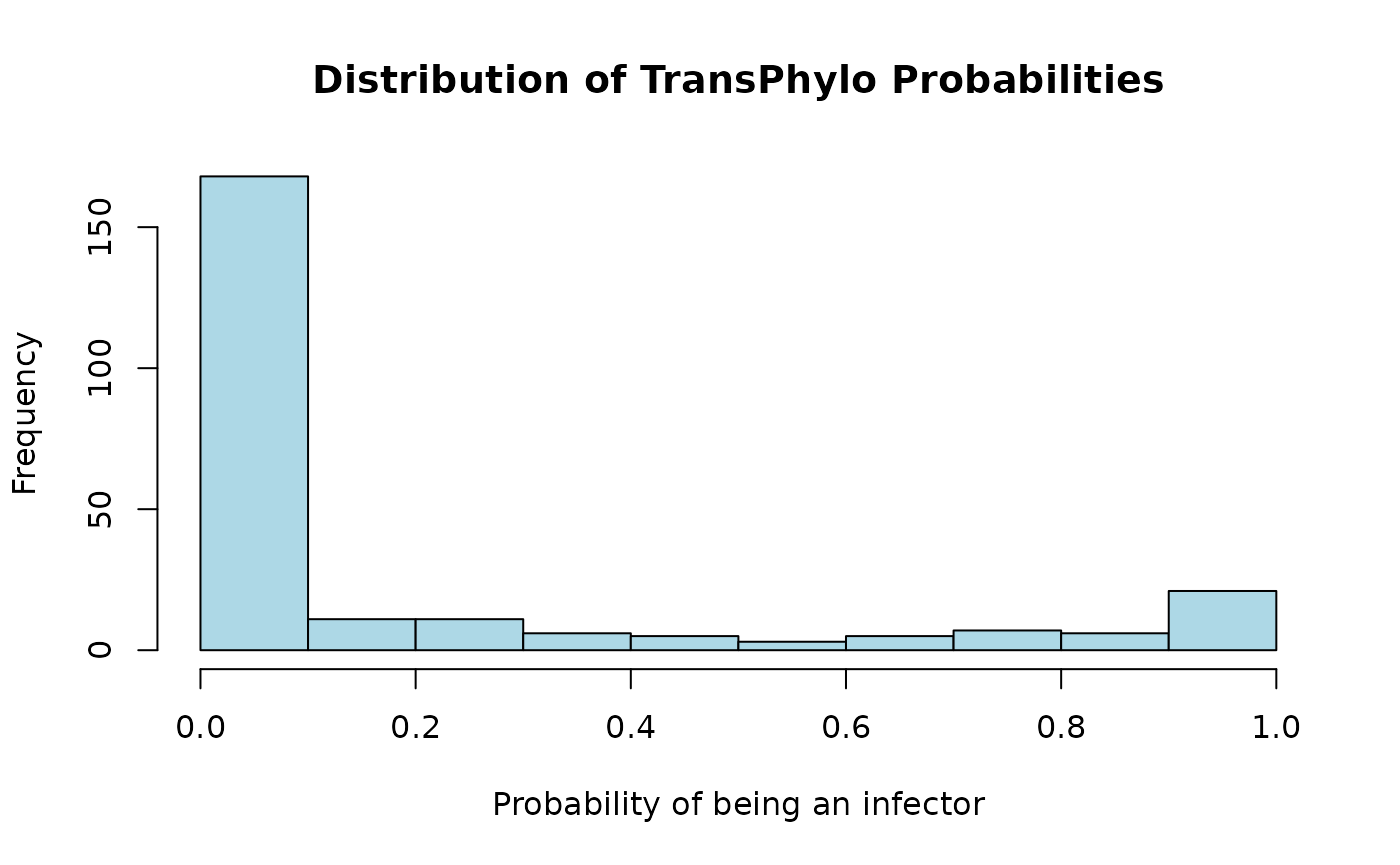
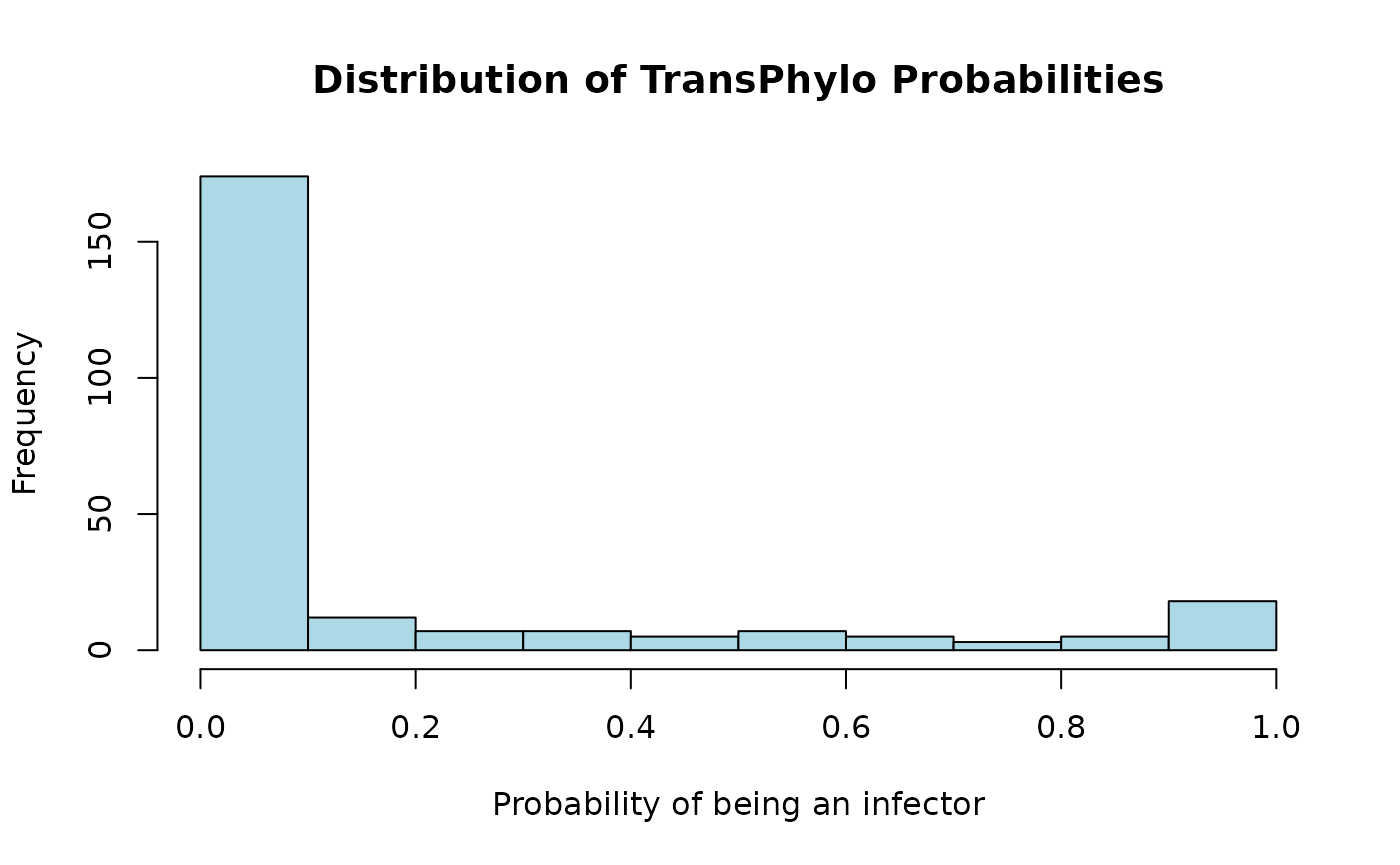
Deploying to gh-pages from @ jessalynnsebastian/beast2tpPipeline@931cb9d9642def74400d4748510269ff70b64350 🚀

diff --git a/articles/mcc_tree_pipeline.html b/articles/mcc_tree_pipeline.html
@@ -248,11 +248,11 @@ argument.</p>
 <span><span class="co">## 4  BTB-1007 lineage4_cluster4 2014-05-02</span></span>
 <span><span class="co">## 5  BTB-1009 lineage4_cluster5 2014-05-05</span></span>
 <span><span class="co">## 6  BTB-1010 lineage4_cluster6 2014-05-05</span></span></code></pre>
-<p>Next, we will create the actual BEAST2 clusters using the
-<code>create_BEAST2_clusters</code> function. We will take the
-sequences, split them into separate objects, and keep only the SNPs
-(sites that are the same across all sequences will not matter to
-BEAST2).</p>
+<p>Next, we will create the actual BEAST2 clusters containing the
+genetic data using the <code>create_BEAST2_clusters</code> function. We
+will take the sequences, split them into separate objects, and keep only
+the SNPs (sites that are the same across all sequences will not matter
+to BEAST2).</p>
 <p>We will discard clusters with fewer than 4 sequences, and clusters
 with fewer than 8 SNPs. We also add constant sites to the sequences, to
 deal with ascertainment bias in BEAST2 due to the fact that we are only
@@ -548,7 +548,7 @@ We will use the <code>regression</code> function to do so.</p>
 <code class="sourceCode R"><span><span class="co"># Get dataframe with covariates for regression</span></span>
 <span><span class="va">cleaned_data</span> <span class="op">&lt;-</span> <span class="va">metadata</span><span class="op">[</span>, <span class="fu"><a href="https://rdrr.io/r/base/c.html" class="external-link">c</a></span><span class="op">(</span><span class="st">"SampleID"</span>, <span class="st">"hivfinal_new"</span><span class="op">)</span><span class="op">]</span></span>
 <span><span class="va">cleaned_data</span> <span class="op">&lt;-</span> <span class="va">cleaned_data</span><span class="op">[</span><span class="fu"><a href="https://rdrr.io/r/stats/complete.cases.html" class="external-link">complete.cases</a></span><span class="op">(</span><span class="va">cleaned_data</span><span class="op">)</span>, <span class="op">]</span></span>
-<span><span class="va">cleaned_data</span><span class="op">$</span><span class="va">hivfinal_new</span> <span class="op">&lt;-</span> <span class="fu"><a href="https://rdrr.io/r/base/factor.html" class="external-link">as.factor</a></span><span class="op">(</span><span class="va">cleaned_data</span><span class="op">$</span><span class="va">hivfinal_new</span> <span class="op">-</span> <span class="fl">1</span><span class="op">)</span></span>
+<span><span class="va">cleaned_data</span><span class="op">$</span><span class="va">hivfinal_new</span> <span class="op">&lt;-</span> <span class="va">cleaned_data</span><span class="op">$</span><span class="va">hivfinal_new</span> <span class="op">-</span> <span class="fl">1</span></span>
 <span><span class="co"># Run a linear model with the probabilities from TransPhylo</span></span>
 <span><span class="va">mdl</span> <span class="op">&lt;-</span> <span class="fu"><a href="../reference/regression.html">regression</a></span><span class="op">(</span>method <span class="op">=</span> <span class="st">"linear"</span>,</span>
 <span>                  cleaned_data <span class="op">=</span> <span class="va">cleaned_data</span>,</span>
@@ -559,12 +559,11 @@ We will use the <code>regression</code> function to do so.</p>
 function will automatically remove rows with missing values.</p>
 <div class="sourceCode" id="cb28"><pre class="downlit sourceCode r">
 <code class="sourceCode R"><span><span class="co"># Get dataframe with covariates for regression, add age and gender</span></span>
-<span><span class="va">cleaned_data</span> <span class="op">&lt;-</span> <span class="va">metadata</span><span class="op">[</span>, <span class="fu"><a href="https://rdrr.io/r/base/c.html" class="external-link">c</a></span><span class="op">(</span><span class="st">"SampleID"</span>, <span class="st">"hivfinal_new"</span>, <span class="st">"agenew"</span>, <span class="st">"genderf1"</span><span class="op">)</span><span class="op">]</span></span>
+<span><span class="va">cleaned_data</span> <span class="op">&lt;-</span> <span class="va">metadata</span><span class="op">[</span>, <span class="fu"><a href="https://rdrr.io/r/base/c.html" class="external-link">c</a></span><span class="op">(</span><span class="st">"SampleID"</span>, <span class="st">"hivfinal_new"</span>, <span class="st">"genderf1"</span>,</span>
+<span>                             <span class="st">"tb_everf3"</span>, <span class="st">"smokef1"</span>, <span class="st">"alcohol_excess"</span><span class="op">)</span><span class="op">]</span></span>
 <span><span class="va">cleaned_data</span> <span class="op">&lt;-</span> <span class="va">cleaned_data</span><span class="op">[</span><span class="fu"><a href="https://rdrr.io/r/stats/complete.cases.html" class="external-link">complete.cases</a></span><span class="op">(</span><span class="va">cleaned_data</span><span class="op">)</span>, <span class="op">]</span></span>
-<span><span class="va">cleaned_data</span><span class="op">$</span><span class="va">hivfinal_new</span> <span class="op">&lt;-</span> <span class="fu"><a href="https://rdrr.io/r/base/factor.html" class="external-link">as.factor</a></span><span class="op">(</span><span class="va">cleaned_data</span><span class="op">$</span><span class="va">hivfinal_new</span> <span class="op">-</span> <span class="fl">1</span><span class="op">)</span></span>
-<span><span class="va">cleaned_data</span><span class="op">$</span><span class="va">genderf1</span> <span class="op">&lt;-</span> <span class="fu"><a href="https://rdrr.io/r/base/factor.html" class="external-link">factor</a></span><span class="op">(</span><span class="va">cleaned_data</span><span class="op">$</span><span class="va">genderf1</span>,</span>
-<span>                                levels <span class="op">=</span> <span class="fu"><a href="https://rdrr.io/r/base/c.html" class="external-link">c</a></span><span class="op">(</span><span class="fl">1</span>, <span class="fl">2</span><span class="op">)</span>,</span>
-<span>                                labels <span class="op">=</span> <span class="fu"><a href="https://rdrr.io/r/base/c.html" class="external-link">c</a></span><span class="op">(</span><span class="st">"M"</span>, <span class="st">"F"</span><span class="op">)</span><span class="op">)</span></span>
+<span><span class="va">cleaned_data</span><span class="op">[</span>, <span class="fl">2</span><span class="op">:</span><span class="fl">6</span><span class="op">]</span> <span class="op">&lt;-</span> <span class="fu"><a href="https://rdrr.io/r/base/apply.html" class="external-link">apply</a></span><span class="op">(</span><span class="va">cleaned_data</span><span class="op">[</span>, <span class="fl">2</span><span class="op">:</span><span class="fl">6</span><span class="op">]</span>, <span class="fl">2</span>,</span>
+<span>                             <span class="kw">function</span><span class="op">(</span><span class="va">x</span><span class="op">)</span> <span class="fu"><a href="https://rdrr.io/r/base/numeric.html" class="external-link">as.numeric</a></span><span class="op">(</span><span class="va">x</span><span class="op">)</span> <span class="op">-</span> <span class="fl">1</span><span class="op">)</span></span>
 <span><span class="co"># Run a linear model with the probabilities from TransPhylo</span></span>
 <span><span class="va">mdl</span> <span class="op">&lt;-</span> <span class="fu"><a href="../reference/regression.html">regression</a></span><span class="op">(</span>method <span class="op">=</span> <span class="st">"linear"</span>,</span>
 <span>                  cleaned_data <span class="op">=</span> <span class="va">cleaned_data</span>,</span>
@@ -576,20 +575,22 @@ function will automatically remove rows with missing values.</p>
 <span><span class="co">## </span></span>
 <span><span class="co">## Residuals:</span></span>
 <span><span class="co">##      Min       1Q   Median       3Q      Max </span></span>
-<span><span class="co">## -0.26801 -0.17625 -0.14314  0.00812  0.87396 </span></span>
+<span><span class="co">## -0.22528 -0.17311 -0.15239  0.01174  0.83791 </span></span>
 <span><span class="co">## </span></span>
 <span><span class="co">## Coefficients:</span></span>
-<span><span class="co">##                Estimate Std. Error t value Pr(&gt;|t|)   </span></span>
-<span><span class="co">## (Intercept)    0.251241   0.077408   3.246  0.00134 **</span></span>
-<span><span class="co">## hivfinal_new1  0.019518   0.041655   0.469  0.63981   </span></span>
-<span><span class="co">## agenew        -0.002502   0.001745  -1.434  0.15291   </span></span>
-<span><span class="co">## genderf1F     -0.019601   0.042283  -0.464  0.64339   </span></span>
+<span><span class="co">##                 Estimate Std. Error t value Pr(&gt;|t|)  </span></span>
+<span><span class="co">## (Intercept)     0.126011   0.057209   2.203   0.0286 *</span></span>
+<span><span class="co">## hivfinal_new    0.039487   0.040426   0.977   0.3297  </span></span>
+<span><span class="co">## genderf1       -0.011014   0.043591  -0.253   0.8007  </span></span>
+<span><span class="co">## tb_everf3       0.007609   0.049439   0.154   0.8778  </span></span>
+<span><span class="co">## smokef1         0.052170   0.051089   1.021   0.3082  </span></span>
+<span><span class="co">## alcohol_excess -0.020719   0.049316  -0.420   0.6748  </span></span>
 <span><span class="co">## ---</span></span>
 <span><span class="co">## Signif. codes:  0 '***' 0.001 '**' 0.01 '*' 0.05 '.' 0.1 ' ' 1</span></span>
 <span><span class="co">## </span></span>
-<span><span class="co">## Residual standard error: 0.3058 on 236 degrees of freedom</span></span>
-<span><span class="co">## Multiple R-squared:  0.01246,    Adjusted R-squared:  -9.254e-05 </span></span>
-<span><span class="co">## F-statistic: 0.9926 on 3 and 236 DF,  p-value: 0.397</span></span></code></pre>
+<span><span class="co">## Residual standard error: 0.3077 on 234 degrees of freedom</span></span>
+<span><span class="co">## Multiple R-squared:  0.008643,   Adjusted R-squared:  -0.01254 </span></span>
+<span><span class="co">## F-statistic: 0.408 on 5 and 234 DF,  p-value: 0.843</span></span></code></pre>
 <p>Alternatively, a probability threshold can be set to mark individuals
 as infectors or non-infectors, and a logistic regression may be run.
 This is done by setting the <code>method</code> argument in
@@ -602,8 +603,65 @@ threshold.</p>
 <span><span class="va">mdl_logistic</span> <span class="op">&lt;-</span> <span class="fu"><a href="../reference/regression.html">regression</a></span><span class="op">(</span>method <span class="op">=</span> <span class="st">"logistic"</span>,</span>
 <span>                           cleaned_data <span class="op">=</span> <span class="va">cleaned_data</span>,</span>
 <span>                           prob_source <span class="op">=</span> <span class="va">prob_source</span>,</span>
-<span>                           prob_cutoff <span class="op">=</span> <span class="fl">0.5</span><span class="op">)</span></span>
+<span>                           prob_cutoff <span class="op">=</span> <span class="fl">0.6</span><span class="op">)</span></span>
 <span><span class="fu"><a href="https://rdrr.io/r/base/summary.html" class="external-link">summary</a></span><span class="op">(</span><span class="va">mdl_logistic</span><span class="op">)</span></span></code></pre></div>
+<pre><code><span><span class="co">## </span></span>
+<span><span class="co">## Call:</span></span>
+<span><span class="co">## glm(formula = tp_source ~ ., family = "binomial", data = cleaned_data)</span></span>
+<span><span class="co">## </span></span>
+<span><span class="co">## Coefficients:</span></span>
+<span><span class="co">##                Estimate Std. Error z value Pr(&gt;|z|)    </span></span>
+<span><span class="co">## (Intercept)    -2.57277    0.61177  -4.205 2.61e-05 ***</span></span>
+<span><span class="co">## hivfinal_new    0.61646    0.40656   1.516    0.129    </span></span>
+<span><span class="co">## genderf1       -0.03172    0.42411  -0.075    0.940    </span></span>
+<span><span class="co">## tb_everf3      -0.10814    0.50432  -0.214    0.830    </span></span>
+<span><span class="co">## smokef1         1.03882    0.55876   1.859    0.063 .  </span></span>
+<span><span class="co">## alcohol_excess -0.52863    0.47714  -1.108    0.268    </span></span>
+<span><span class="co">## ---</span></span>
+<span><span class="co">## Signif. codes:  0 '***' 0.001 '**' 0.01 '*' 0.05 '.' 0.1 ' ' 1</span></span>
+<span><span class="co">## </span></span>
+<span><span class="co">## (Dispersion parameter for binomial family taken to be 1)</span></span>
+<span><span class="co">## </span></span>
+<span><span class="co">##     Null deviance: 184.70  on 239  degrees of freedom</span></span>
+<span><span class="co">## Residual deviance: 178.82  on 234  degrees of freedom</span></span>
+<span><span class="co">## AIC: 190.82</span></span>
+<span><span class="co">## </span></span>
+<span><span class="co">## Number of Fisher Scoring iterations: 5</span></span></code></pre>
+<div class="sourceCode" id="cb32"><pre class="downlit sourceCode r">
+<code class="sourceCode R"><span><span class="co"># Get odds ratios (adjusted for other covariates)</span></span>
+<span><span class="va">adj_odds_ratios</span> <span class="op">&lt;-</span> <span class="fu"><a href="https://rdrr.io/r/base/data.frame.html" class="external-link">data.frame</a></span><span class="op">(</span>est <span class="op">=</span> <span class="fu"><a href="https://rdrr.io/r/base/Log.html" class="external-link">exp</a></span><span class="op">(</span><span class="va">mdl_logistic</span><span class="op">$</span><span class="va">coefficients</span><span class="op">)</span>,</span>
+<span>                              row.names <span class="op">=</span> <span class="fu"><a href="https://rdrr.io/r/base/names.html" class="external-link">names</a></span><span class="op">(</span><span class="va">mdl_logistic</span><span class="op">$</span><span class="va">coefficients</span><span class="op">)</span><span class="op">)</span></span>
+<span><span class="va">adj_odds_ratios</span> <span class="op">&lt;-</span> <span class="fu"><a href="https://rdrr.io/r/base/cbind.html" class="external-link">cbind</a></span><span class="op">(</span><span class="va">adj_odds_ratios</span>, <span class="fu"><a href="https://rdrr.io/r/base/Log.html" class="external-link">exp</a></span><span class="op">(</span><span class="fu"><a href="https://rdrr.io/r/stats/confint.html" class="external-link">confint</a></span><span class="op">(</span><span class="va">mdl_logistic</span><span class="op">)</span><span class="op">)</span><span class="op">)</span></span></code></pre></div>
+<pre><code><span><span class="co">## Waiting for profiling to be done...</span></span></code></pre>
+<div class="sourceCode" id="cb34"><pre class="downlit sourceCode r">
+<code class="sourceCode R"><span><span class="va">adj_odds_ratios</span></span></code></pre></div>
+<pre><code><span><span class="co">##                       est      2.5 %    97.5 %</span></span>
+<span><span class="co">## (Intercept)    0.07632382 0.02069694 0.2330317</span></span>
+<span><span class="co">## hivfinal_new   1.85236668 0.84517253 4.2139991</span></span>
+<span><span class="co">## genderf1       0.96877762 0.41671834 2.2236658</span></span>
+<span><span class="co">## tb_everf3      0.89750391 0.34946563 2.6086441</span></span>
+<span><span class="co">## smokef1        2.82587567 0.99353282 9.1007819</span></span>
+<span><span class="co">## alcohol_excess 0.58941296 0.23284878 1.5307532</span></span></code></pre>
+<p>Since there is some misclassification in the infector/non-infector
+status, we can also run a logistic regression with misclassification
+using a simple Bayesian method. This is done by setting the
+<code>method</code> argument in <code>regression</code> to
+“bayesian_logistic_misclass”.</p>
+<div class="sourceCode" id="cb36"><pre class="downlit sourceCode r">
+<code class="sourceCode R"><span><span class="co"># Require that all covariates have columns of type numeric</span></span>
+<span><span class="va">numeric_data</span> <span class="op">&lt;-</span> <span class="va">cleaned_data</span></span>
+<span><span class="va">numeric_data</span><span class="op">$</span><span class="va">agenew</span> <span class="op">&lt;-</span> <span class="fu"><a href="https://rdrr.io/r/base/numeric.html" class="external-link">as.numeric</a></span><span class="op">(</span><span class="va">numeric_data</span><span class="op">$</span><span class="va">agenew</span><span class="op">)</span></span>
+<span><span class="va">numeric_data</span><span class="op">$</span><span class="va">genderf1</span> <span class="op">&lt;-</span> <span class="fu"><a href="https://rdrr.io/r/base/numeric.html" class="external-link">as.numeric</a></span><span class="op">(</span><span class="va">numeric_data</span><span class="op">$</span><span class="va">genderf1</span><span class="op">)</span> <span class="op">-</span> <span class="fl">1</span></span>
+<span><span class="va">numeric_data</span><span class="op">$</span><span class="va">hivfinal_new</span> <span class="op">&lt;-</span> <span class="fu"><a href="https://rdrr.io/r/base/numeric.html" class="external-link">as.numeric</a></span><span class="op">(</span><span class="va">numeric_data</span><span class="op">$</span><span class="va">hivfinal_new</span><span class="op">)</span> <span class="op">-</span> <span class="fl">1</span></span>
+<span><span class="va">samples_logistic</span> <span class="op">&lt;-</span> <span class="fu"><a href="../reference/regression.html">regression</a></span><span class="op">(</span>method <span class="op">=</span> <span class="st">"bayesian_logistic_misclass"</span>,</span>
+<span>                               cleaned_data <span class="op">=</span> <span class="va">numeric_data</span>,</span>
+<span>                               prob_source <span class="op">=</span> <span class="va">prob_source</span>,</span>
+<span>                               prob_cutoff <span class="op">=</span> <span class="fl">0.6</span>,</span>
+<span>                               sensitivity <span class="op">=</span> <span class="fl">0.28</span>,</span>
+<span>                               specificity <span class="op">=</span> <span class="fl">0.97</span><span class="op">)</span></span>
+<span><span class="co"># Pull the samples for the hiv coefficient, which are the log adjusted</span></span>
+<span><span class="co"># odds ratios for the logistic regression</span></span>
+<span><span class="fu"><a href="https://rdrr.io/r/base/summary.html" class="external-link">summary</a></span><span class="op">(</span><span class="fu"><a href="https://rdrr.io/r/base/Log.html" class="external-link">exp</a></span><span class="op">(</span><span class="va">samples_logistic</span><span class="op">$</span><span class="va">beta</span><span class="op">[</span><span class="fl">1</span>, <span class="op">]</span><span class="op">)</span><span class="op">)</span></span></code></pre></div>
 </div>
 <div class="section level2">
 <h2 id="exploration-of-the-pipeline">Exploration of the Pipeline<a class="anchor" aria-label="anchor" href="#exploration-of-the-pipeline"></a>
@@ -613,23 +671,23 @@ and explore the impact of those changes on the results. For example,
 suppose we want to change the sampling fraction prior for TransPhylo,
 get new results, do linear regression with those results, and compare
 them to the old results.</p>
-<div class="sourceCode" id="cb31"><pre class="downlit sourceCode r">
+<div class="sourceCode" id="cb37"><pre class="downlit sourceCode r">
 <code class="sourceCode R"><span><span class="co"># Run TransPhylo on the MCC trees with a new sampling fraction prior</span></span>
 <span><span class="co"># Using same MCC trees we have already read in</span></span>
-<span><span class="va">prob_source</span> <span class="op">&lt;-</span> <span class="fu"><a href="../reference/run_TransPhylo.html">run_TransPhylo</a></span><span class="op">(</span><span class="va">mcc_trees</span>,</span>
-<span>                              type <span class="op">=</span> <span class="st">"mcctrees"</span>,</span>
-<span>                              cluster_dict <span class="op">=</span> <span class="va">all_cluster_assignments</span>,</span>
-<span>                              out_dir <span class="op">=</span> <span class="fu"><a href="https://rdrr.io/r/base/system.file.html" class="external-link">system.file</a></span><span class="op">(</span><span class="st">"mcc_trees_example"</span>,</span>
-<span>                                                    <span class="st">"TransPhylo"</span>,</span>
-<span>                                                    package <span class="op">=</span> <span class="st">"beast2tpPipeline"</span><span class="op">)</span>,</span>
-<span>                              output_name <span class="op">=</span> <span class="st">"tp_res_changed_sampling_frac"</span>,</span>
-<span>                              w.shape <span class="op">=</span> <span class="fl">10</span>,</span>
-<span>                              w.scale <span class="op">=</span> <span class="fl">0.1</span>,</span>
-<span>                              prior_pi_a <span class="op">=</span> <span class="fl">26</span>,</span>
-<span>                              prior_pi_b <span class="op">=</span> <span class="fl">74</span>,</span>
-<span>                              share <span class="op">=</span> <span class="fu"><a href="https://rdrr.io/r/base/c.html" class="external-link">c</a></span><span class="op">(</span><span class="st">"neg"</span>, <span class="st">"off.r"</span><span class="op">)</span>,</span>
-<span>                              startNeg <span class="op">=</span> <span class="fl">1.48</span>,</span>
-<span>                              mcmcIterations <span class="op">=</span> <span class="fl">100000</span><span class="op">)</span></span>
+<span><span class="va">prob_source_new_pi</span> <span class="op">&lt;-</span> <span class="fu"><a href="../reference/run_TransPhylo.html">run_TransPhylo</a></span><span class="op">(</span><span class="va">mcc_trees</span>,</span>
+<span>                                     type <span class="op">=</span> <span class="st">"mcctrees"</span>,</span>
+<span>                                     cluster_dict <span class="op">=</span> <span class="va">all_cluster_assignments</span>,</span>
+<span>                                     out_dir <span class="op">=</span> <span class="fu"><a href="https://rdrr.io/r/base/system.file.html" class="external-link">system.file</a></span><span class="op">(</span><span class="st">"mcc_trees_example"</span>,</span>
+<span>                                                           <span class="st">"TransPhylo"</span>,</span>
+<span>                                                           package <span class="op">=</span> <span class="st">"beast2tpPipeline"</span><span class="op">)</span>,</span>
+<span>                                     output_name <span class="op">=</span> <span class="st">"tp_res_changed_sampling_frac"</span>,</span>
+<span>                                     w.shape <span class="op">=</span> <span class="fl">10</span>,</span>
+<span>                                     w.scale <span class="op">=</span> <span class="fl">0.1</span>,</span>
+<span>                                     prior_pi_a <span class="op">=</span> <span class="fl">26</span>,</span>
+<span>                                     prior_pi_b <span class="op">=</span> <span class="fl">74</span>,</span>
+<span>                                     share <span class="op">=</span> <span class="fu"><a href="https://rdrr.io/r/base/c.html" class="external-link">c</a></span><span class="op">(</span><span class="st">"neg"</span>, <span class="st">"off.r"</span><span class="op">)</span>,</span>
+<span>                                     startNeg <span class="op">=</span> <span class="fl">1.48</span>,</span>
+<span>                                     mcmcIterations <span class="op">=</span> <span class="fl">100000</span><span class="op">)</span></span>
 <span></span>
 <span><span class="co"># Look at some traceplots again</span></span>
 <span><span class="va">transphylo_res</span> <span class="op">&lt;-</span> <span class="fu"><a href="https://rdrr.io/r/base/readRDS.html" class="external-link">readRDS</a></span><span class="op">(</span><span class="va">transphylo_res_file</span><span class="op">)</span></span>
@@ -638,37 +696,74 @@ them to the old results.</p>
 <p>Now we have the updated probabilities, and we can compare their
 distribution to their distribution under the old sampling fraction
 prior.</p>
-<div class="sourceCode" id="cb32"><pre class="downlit sourceCode r">
+<div class="sourceCode" id="cb38"><pre class="downlit sourceCode r">
 <code class="sourceCode R"><span><span class="fu"><a href="https://rdrr.io/r/graphics/hist.html" class="external-link">hist</a></span><span class="op">(</span><span class="va">prob_source</span><span class="op">$</span><span class="va">prob</span>, main <span class="op">=</span> <span class="st">"Distribution of TransPhylo Probabilities"</span>,</span>
 <span>     xlab <span class="op">=</span> <span class="st">"Probability of being an infector"</span>, col <span class="op">=</span> <span class="st">"lightblue"</span><span class="op">)</span></span></code></pre></div>
 <p><img src="mcc_tree_pipeline_files/figure-html/prob_source_histogram_pi2-1.png" width="700"></p>
-<p>We can also redo our linear (or logistic) regression with these new
-probabilities.</p>
-<div class="sourceCode" id="cb33"><pre class="downlit sourceCode r">
-<code class="sourceCode R"><span><span class="va">mdl_new</span> <span class="op">&lt;-</span> <span class="fu"><a href="../reference/regression.html">regression</a></span><span class="op">(</span>method <span class="op">=</span> <span class="st">"linear"</span>,</span>
-<span>                      cleaned_data <span class="op">=</span> <span class="va">cleaned_data</span>,</span>
-<span>                      prob_source <span class="op">=</span> <span class="va">prob_source</span><span class="op">)</span></span>
-<span><span class="fu"><a href="https://rdrr.io/r/base/summary.html" class="external-link">summary</a></span><span class="op">(</span><span class="va">mdl_new</span><span class="op">)</span></span></code></pre></div>
+<p>We can look at individual changes in probabilities via a scatterplot,
+where each point represents a sample, the x-axis gives the probability
+under the old sampling fraction prior, and the y-axis gives the
+probability under the new sampling fraction prior.</p>
+<div class="sourceCode" id="cb39"><pre class="downlit sourceCode r">
+<code class="sourceCode R"><span><span class="fu"><a href="https://rdrr.io/r/base/colnames.html" class="external-link">colnames</a></span><span class="op">(</span><span class="va">prob_source_new_pi</span><span class="op">)</span> <span class="op">&lt;-</span> <span class="fu"><a href="https://rdrr.io/r/base/c.html" class="external-link">c</a></span><span class="op">(</span><span class="st">"SampleID"</span>, <span class="st">"prob_source_new_pi"</span><span class="op">)</span></span>
+<span><span class="va">prob_source_pairs</span> <span class="op">&lt;-</span> <span class="fu"><a href="https://rdrr.io/r/base/merge.html" class="external-link">merge</a></span><span class="op">(</span><span class="va">prob_source</span>, <span class="va">prob_source_new_pi</span>, by <span class="op">=</span> <span class="st">"SampleID"</span><span class="op">)</span></span>
+<span><span class="fu"><a href="https://rdrr.io/r/graphics/plot.default.html" class="external-link">plot</a></span><span class="op">(</span><span class="va">prob_source_pairs</span><span class="op">$</span><span class="va">prob_source</span>, <span class="va">prob_source_pairs</span><span class="op">$</span><span class="va">prob_source_new_pi</span>,</span>
+<span>     xlab <span class="op">=</span> <span class="st">"Prob Source Under Beta(1,19) Sampling Fraction Prior"</span>, ylab <span class="op">=</span> <span class="st">"Prob Source Under Beta(26,74) Sampling Fraction Prior"</span>,</span>
+<span>     main <span class="op">=</span> <span class="st">"Comparison of TransPhylo Probabilities of Being an Infection Source"</span><span class="op">)</span></span>
+<span><span class="fu"><a href="https://rdrr.io/r/graphics/abline.html" class="external-link">abline</a></span><span class="op">(</span>a <span class="op">=</span> <span class="fl">0</span>, b <span class="op">=</span> <span class="fl">1</span>, col <span class="op">=</span> <span class="st">"darkgreen"</span><span class="op">)</span></span>
+<span><span class="va">spline_fit</span> <span class="op">&lt;-</span> <span class="fu"><a href="https://rdrr.io/r/stats/smooth.spline.html" class="external-link">smooth.spline</a></span><span class="op">(</span><span class="va">prob_source_pairs</span><span class="op">$</span><span class="va">prob_source</span>,</span>
+<span>                            <span class="va">prob_source_pairs</span><span class="op">$</span><span class="va">prob_source_new_pi</span>,</span>
+<span>                            df <span class="op">=</span> <span class="fl">5</span><span class="op">)</span></span>
+<span><span class="fu"><a href="https://rdrr.io/r/graphics/lines.html" class="external-link">lines</a></span><span class="op">(</span><span class="va">spline_fit</span>, col <span class="op">=</span> <span class="st">"darkgreen"</span>, lty <span class="op">=</span> <span class="fl">2</span><span class="op">)</span></span></code></pre></div>
+<p><img src="mcc_tree_pipeline_files/figure-html/prob_source_scatterplot-1.png" width="700"></p>
+<p>We can also redo our logistic (or other) regression with these new
+probabilities, and look at the new odds ratios.</p>
+<div class="sourceCode" id="cb40"><pre class="downlit sourceCode r">
+<code class="sourceCode R"><span><span class="fu"><a href="https://rdrr.io/r/base/colnames.html" class="external-link">colnames</a></span><span class="op">(</span><span class="va">prob_source_new_pi</span><span class="op">)</span> <span class="op">&lt;-</span> <span class="fu"><a href="https://rdrr.io/r/base/c.html" class="external-link">c</a></span><span class="op">(</span><span class="st">"SampleID"</span>, <span class="st">"prob_source"</span><span class="op">)</span></span>
+<span><span class="va">mdl_logistic_new</span> <span class="op">&lt;-</span> <span class="fu"><a href="../reference/regression.html">regression</a></span><span class="op">(</span>method <span class="op">=</span> <span class="st">"logistic"</span>,</span>
+<span>                               cleaned_data <span class="op">=</span> <span class="va">cleaned_data</span>,</span>
+<span>                               prob_source <span class="op">=</span> <span class="va">prob_source_new_pi</span>,</span>
+<span>                               prob_cutoff <span class="op">=</span> <span class="fl">0.6</span><span class="op">)</span></span>
+<span><span class="fu"><a href="https://rdrr.io/r/base/summary.html" class="external-link">summary</a></span><span class="op">(</span><span class="va">mdl_logistic_new</span><span class="op">)</span></span></code></pre></div>
 <pre><code><span><span class="co">## </span></span>
 <span><span class="co">## Call:</span></span>
-<span><span class="co">## lm(formula = prob_source ~ ., data = cleaned_data)</span></span>
-<span><span class="co">## </span></span>
-<span><span class="co">## Residuals:</span></span>
-<span><span class="co">##      Min       1Q   Median       3Q      Max </span></span>
-<span><span class="co">## -0.29485 -0.19383 -0.15594  0.04651  0.86442 </span></span>
+<span><span class="co">## glm(formula = tp_source ~ ., family = "binomial", data = cleaned_data)</span></span>
 <span><span class="co">## </span></span>
 <span><span class="co">## Coefficients:</span></span>
-<span><span class="co">##                Estimate Std. Error t value Pr(&gt;|t|)    </span></span>
-<span><span class="co">## (Intercept)    0.289779   0.081382   3.561 0.000447 ***</span></span>
-<span><span class="co">## hivfinal_new1  0.013507   0.043793   0.308 0.758025    </span></span>
-<span><span class="co">## agenew        -0.002889   0.001835  -1.575 0.116653    </span></span>
-<span><span class="co">## genderf1F     -0.023246   0.044454  -0.523 0.601513    </span></span>
+<span><span class="co">##                Estimate Std. Error z value Pr(&gt;|z|)    </span></span>
+<span><span class="co">## (Intercept)     -2.1106     0.5318  -3.969 7.22e-05 ***</span></span>
+<span><span class="co">## hivfinal_new     0.3901     0.3611   1.080    0.280    </span></span>
+<span><span class="co">## genderf1         0.1623     0.3811   0.426    0.670    </span></span>
+<span><span class="co">## tb_everf3       -0.0882     0.4450  -0.198    0.843    </span></span>
+<span><span class="co">## smokef1          0.4950     0.4820   1.027    0.304    </span></span>
+<span><span class="co">## alcohol_excess  -0.1397     0.4434  -0.315    0.753    </span></span>
 <span><span class="co">## ---</span></span>
 <span><span class="co">## Signif. codes:  0 '***' 0.001 '**' 0.01 '*' 0.05 '.' 0.1 ' ' 1</span></span>
 <span><span class="co">## </span></span>
-<span><span class="co">## Residual standard error: 0.3215 on 236 degrees of freedom</span></span>
-<span><span class="co">## Multiple R-squared:  0.01331,    Adjusted R-squared:  0.0007666 </span></span>
-<span><span class="co">## F-statistic: 1.061 on 3 and 236 DF,  p-value: 0.3663</span></span></code></pre>
+<span><span class="co">## (Dispersion parameter for binomial family taken to be 1)</span></span>
+<span><span class="co">## </span></span>
+<span><span class="co">##     Null deviance: 213.02  on 239  degrees of freedom</span></span>
+<span><span class="co">## Residual deviance: 210.53  on 234  degrees of freedom</span></span>
+<span><span class="co">## AIC: 222.53</span></span>
+<span><span class="co">## </span></span>
+<span><span class="co">## Number of Fisher Scoring iterations: 4</span></span></code></pre>
+<div class="sourceCode" id="cb42"><pre class="downlit sourceCode r">
+<code class="sourceCode R"><span><span class="co"># Get odds ratios (adjusted for other covariates)</span></span>
+<span><span class="va">adj_odds_ratios_new</span> <span class="op">&lt;-</span> <span class="fu"><a href="https://rdrr.io/r/base/data.frame.html" class="external-link">data.frame</a></span><span class="op">(</span>est <span class="op">=</span> <span class="fu"><a href="https://rdrr.io/r/base/Log.html" class="external-link">exp</a></span><span class="op">(</span><span class="va">mdl_logistic_new</span><span class="op">$</span><span class="va">coefficients</span><span class="op">)</span>,</span>
+<span>                                  row.names <span class="op">=</span> <span class="fu"><a href="https://rdrr.io/r/base/names.html" class="external-link">names</a></span><span class="op">(</span><span class="va">mdl_logistic_new</span><span class="op">$</span><span class="va">coefficients</span><span class="op">)</span><span class="op">)</span></span>
+<span><span class="va">adj_odds_ratios_new</span> <span class="op">&lt;-</span> <span class="fu"><a href="https://rdrr.io/r/base/cbind.html" class="external-link">cbind</a></span><span class="op">(</span><span class="va">adj_odds_ratios_new</span>, <span class="fu"><a href="https://rdrr.io/r/base/Log.html" class="external-link">exp</a></span><span class="op">(</span><span class="fu"><a href="https://rdrr.io/r/stats/confint.html" class="external-link">confint</a></span><span class="op">(</span><span class="va">mdl_logistic_new</span><span class="op">)</span><span class="op">)</span><span class="op">)</span></span></code></pre></div>
+<pre><code><span><span class="co">## Waiting for profiling to be done...</span></span></code></pre>
+<div class="sourceCode" id="cb44"><pre class="downlit sourceCode r">
+<code class="sourceCode R"><span><span class="va">adj_odds_ratios_new</span></span></code></pre></div>
+<pre><code><span><span class="co">##                      est      2.5 %    97.5 %</span></span>
+<span><span class="co">## (Intercept)    0.1211602 0.03975307 0.3245642</span></span>
+<span><span class="co">## hivfinal_new   1.4771205 0.73109189 3.0362124</span></span>
+<span><span class="co">## genderf1       1.1761967 0.55457392 2.4899201</span></span>
+<span><span class="co">## tb_everf3      0.9155799 0.39564919 2.3125728</span></span>
+<span><span class="co">## smokef1        1.6405469 0.65534985 4.4001744</span></span>
+<span><span class="co">## alcohol_excess 0.8696210 0.36854637 2.1198239</span></span></code></pre>
+<p>And we can compare the odds ratio for HIV status from the two models:
+<img src="mcc_tree_pipeline_files/figure-html/compare_odds_ratios-1.png" width="700"></p>
 </div>
   </main><aside class="col-md-3"><nav id="toc" aria-label="Table of contents"><h2>On this page</h2>
     </nav></aside>

diff --git a/authors.html b/authors.html
@@ -49,14 +49,14 @@
       <h2 id="citation">Citation</h2>
       <p></p>
 
-      <p>Sebastian J (2024).
+      <p>Sebastian J (2025).
 <em>beast2tpPipeline: BEAST2 to TransPhylo to Regression Pipeline</em>.
 R package version 0.0.0.9000, <a href="https://jessalynnsebastian.github.io/beast2tpPipeline/">https://jessalynnsebastian.github.io/beast2tpPipeline/</a>.
 </p>
       <pre>@Manual{,
   title = {beast2tpPipeline: BEAST2 to TransPhylo to Regression Pipeline},
   author = {Jessalyn Sebastian},
-  year = {2024},
+  year = {2025},
   note = {R package version 0.0.0.9000},
   url = {https://jessalynnsebastian.github.io/beast2tpPipeline/},
 }</pre>
